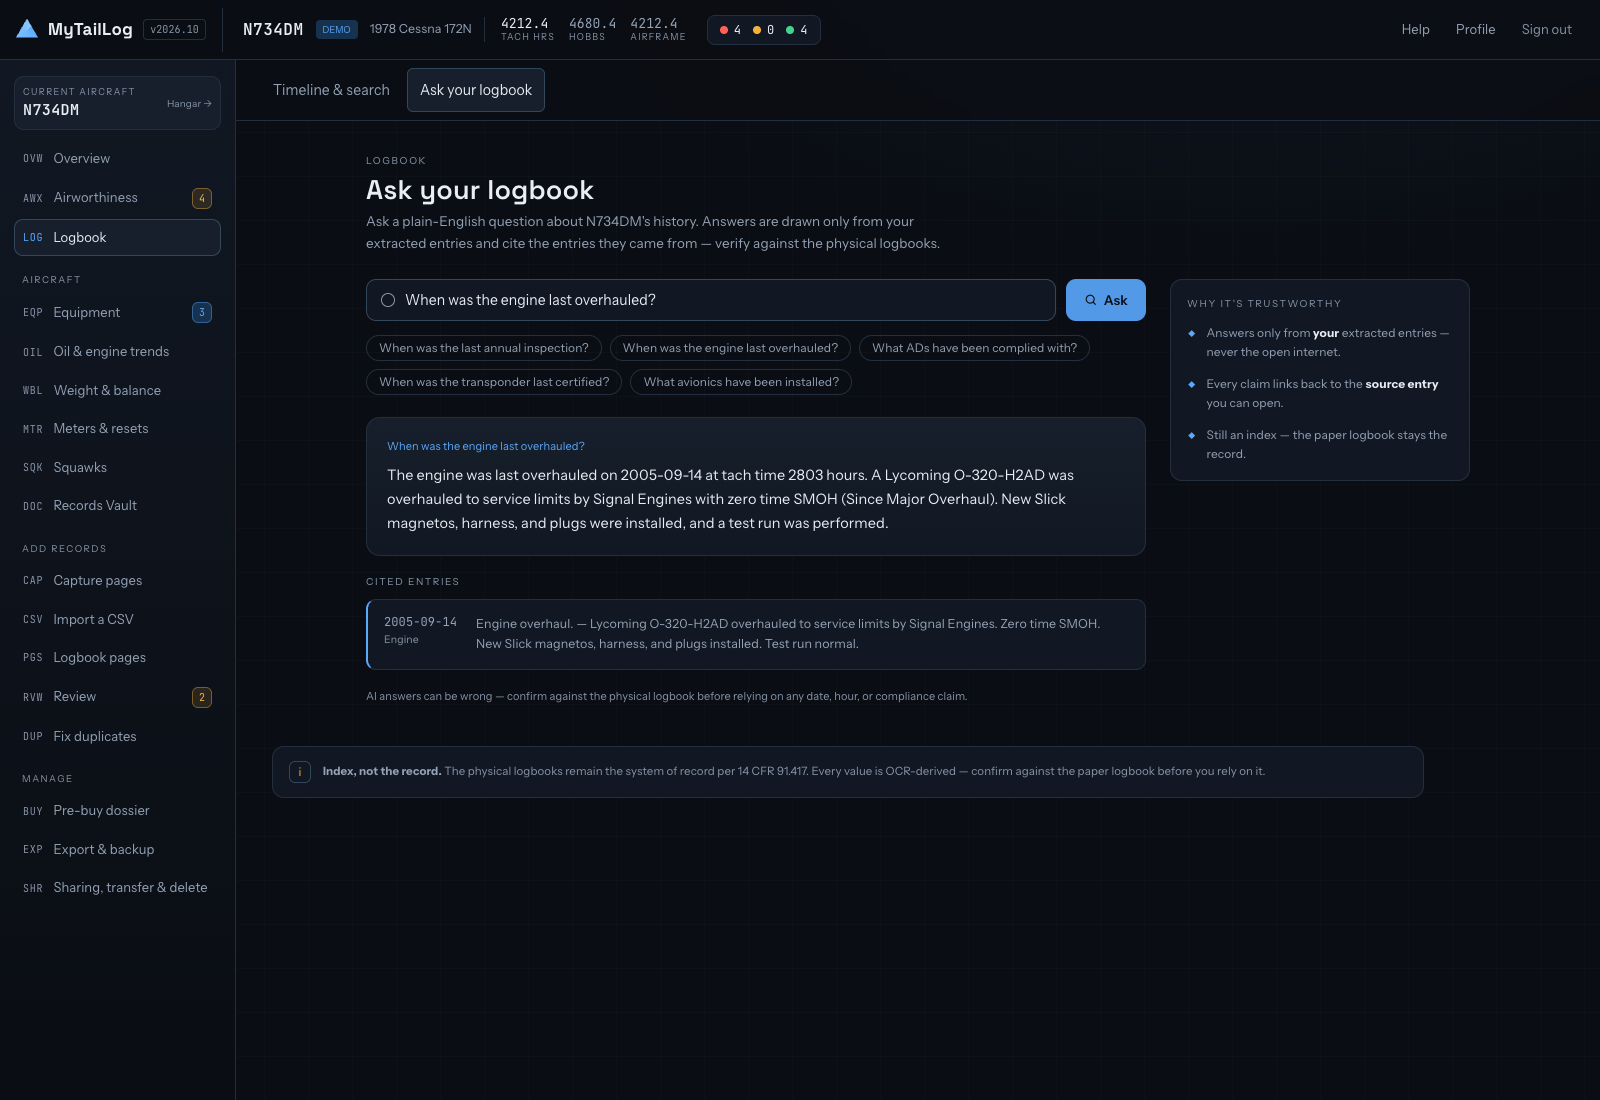
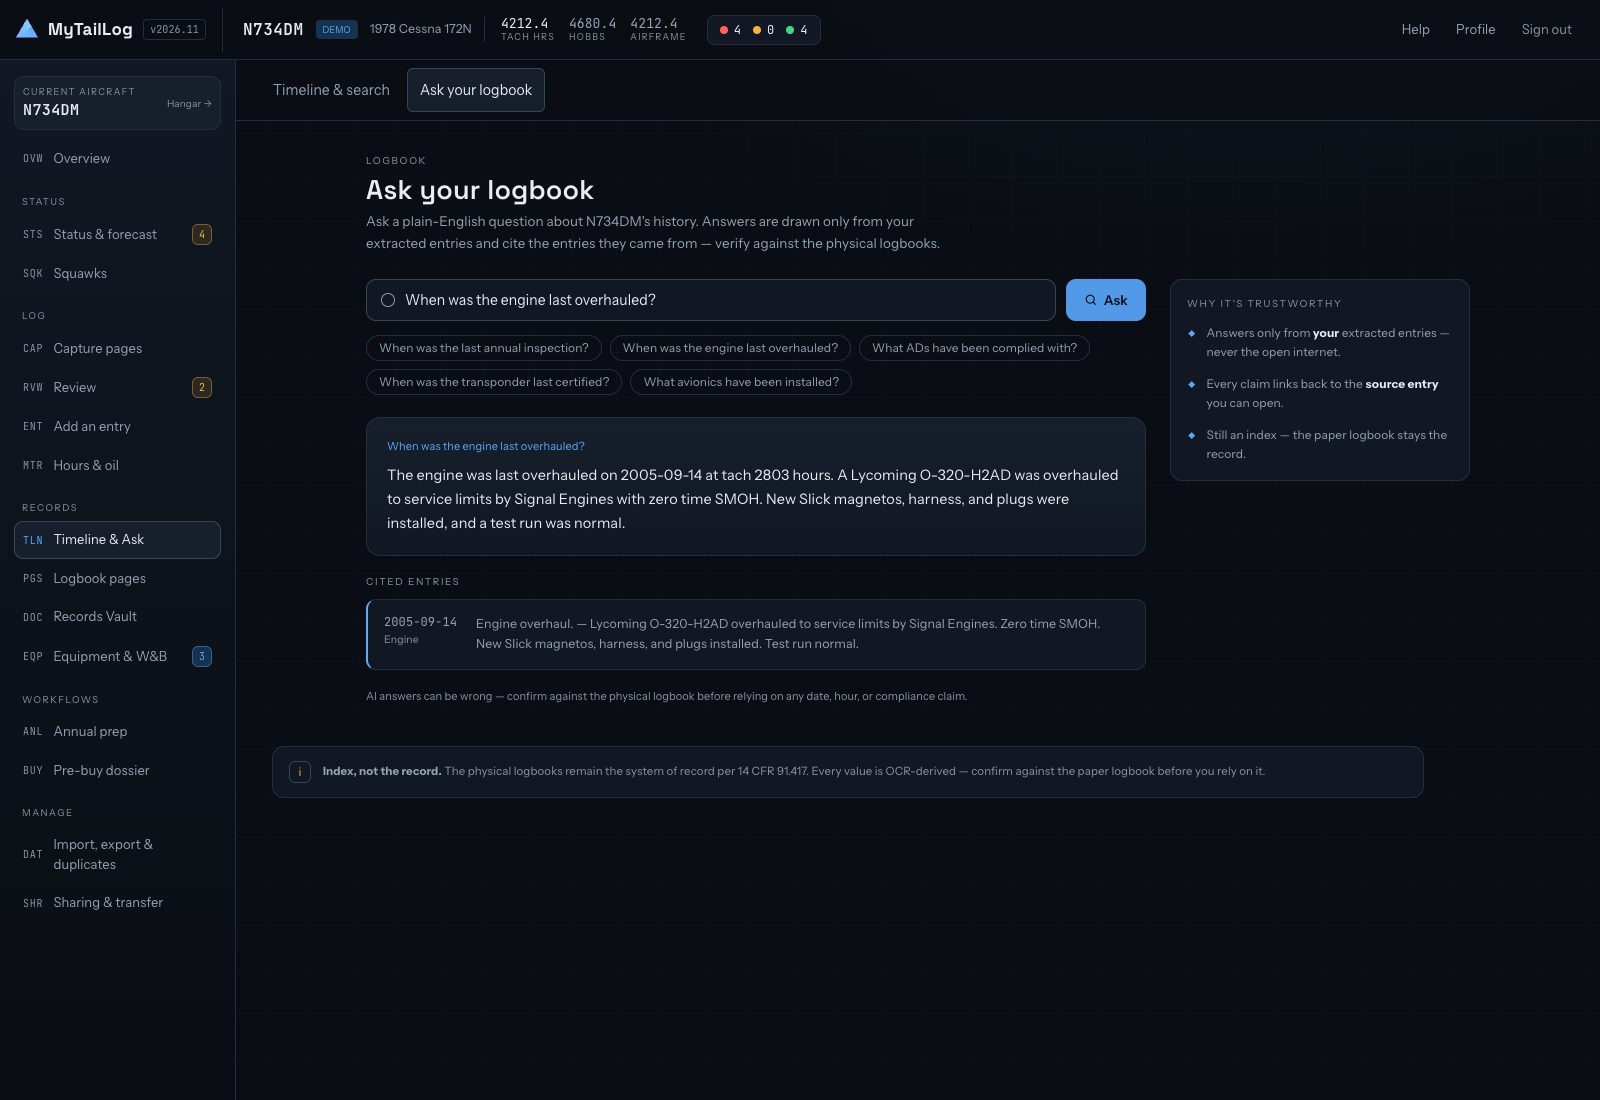
Align release screenshots with current main and document validation

diff --git a/docs/local-mac-handoff.md b/docs/local-mac-handoff.md
@@ -168,3 +168,10 @@ Replaced all six shared PNGs in `apps/web/src/screenshots/` with Playwright capt
 The user signed in through Playwright. Local environment lacked service storage credentials, so the review scan was fetched through the production image endpoint with the user's existing authenticated session and supplied to the local browser route. The Ask capture contains an actual answer from the production endpoint for the demo's engine-overhaul question. No aircraft records were edited. No tokens were saved to a storage-state file.
 
 Removed the old-navigation caveat, corrected review/overview alt text, and added accessible full-size image links with visible labels to the product tour. Anonymous browser checks on both marketing pages at 1440, 390 and 320px verified all six images decode, all six full-size links exist, no horizontal overflow and no page errors. Web typecheck and git diff whitespace checks passed. Evidence: `output/playwright/updated-{home,demo}-{1440,390,320}.png`. Not deployed.
+
+
+## Production PR preparation — 2026-11-17
+
+Release branch `codex/ui-release` starts from current main (`6b76c5c`) and carries the checkpoint plus the Mac fixes, excluding `.impeccable`, installed agent tooling, and local browser outputs. Reconciled conflicts preserve the newer onboarding, records coverage, sharing, and shared maintenance-summary component. Regenerated the six product screenshots against that integrated branch (hub height is now 1179px).
+
+Full review found and fixed skipped local-mirror recovery in EntryEditor/ReviewPane and shortcut identifiers that no longer matched the new sidebar. The new recovery regression test and navigation tests pass. Local validation: 804 unit tests, web typecheck/lint/production build, mobile typecheck/build, marketing Python syntax and shell syntax, archive integrity. Lint has three existing warnings; mobile build retains existing bundle-size warnings. Authenticated compact navigation at 390/768px and anonymous marketing pages at 320/390/1440px pass overflow, link/image, and keyboard-focus checks. PR #254 runs CI, E2E, Semgrep and CodeQL before merge. No database migration. Native store binaries remain a separate release; this PR's web rollout does not update installed native apps.

diff --git a/CHANGELOG.md b/CHANGELOG.md
@@ -6,6 +6,13 @@ the git log.
 
 ## 2026.11
 
+### Improved — tracked status and small-screen navigation
+
+- Missing schedules or meter readings now show as **needs information**, rather than appearing current. Failed record loads show a retry action instead of a reassuring empty assessment.
+- Status, overview, forecast and shared summaries use the same recorded-limit rules. Countdown text keeps both hour and calendar limits visible, and status cards link to the relevant item.
+- Small-screen navigation keeps the main aircraft tasks within reach, with keyboard-accessible menus for the remaining pages.
+- The home page and product tour show current demo screens at full size, with links to open each screenshot for a closer look.
+
 ### Added — record room links
 
 - Owners can send a buyer, mechanic, IA or insurer a read-only link to the aircraft's records, with no account needed. You choose what's in it: the maintenance summary, whole logbooks (confirmed entries only), their page scans, and individual Vault documents.
